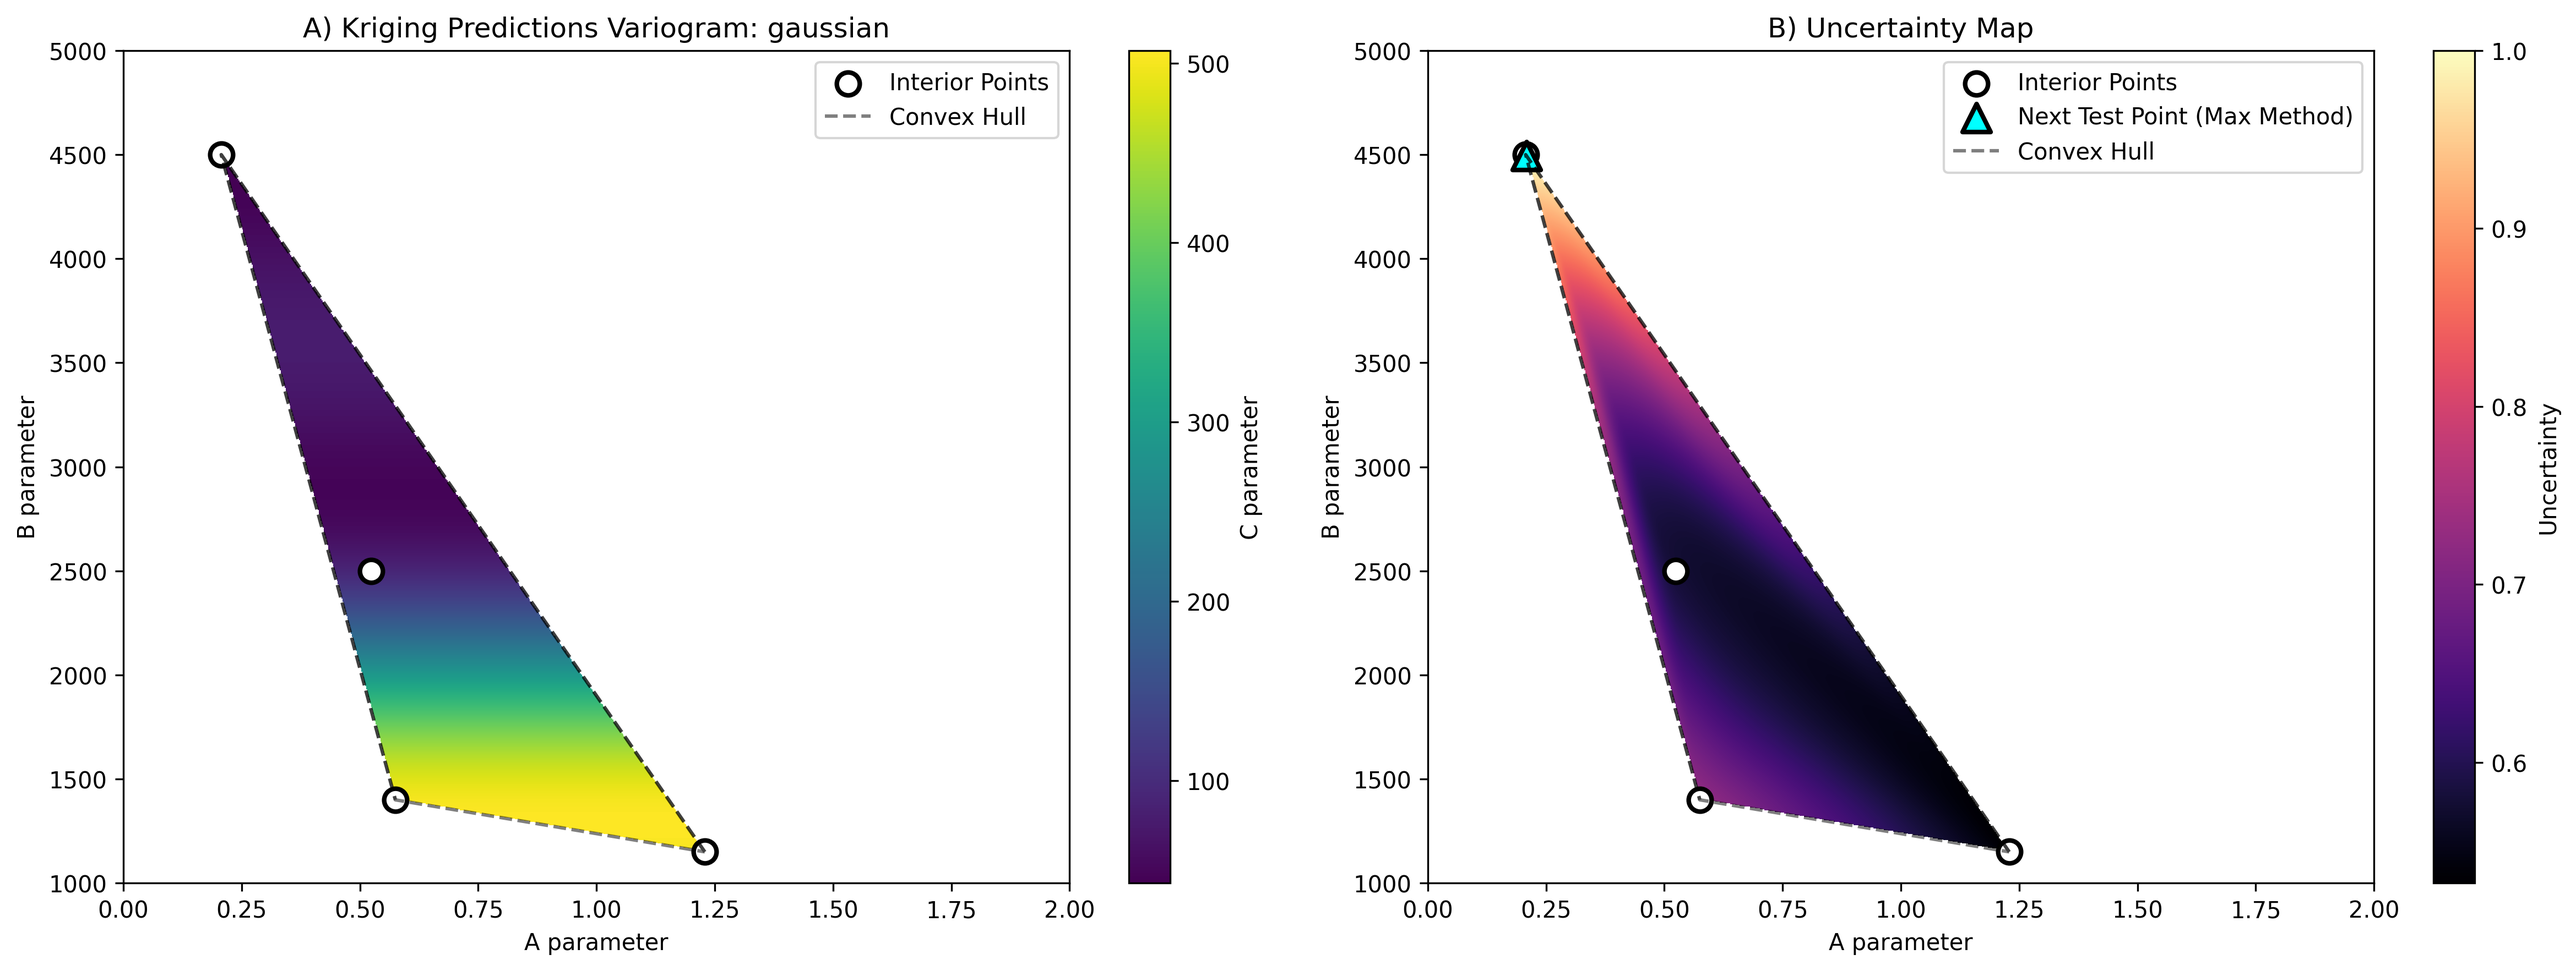
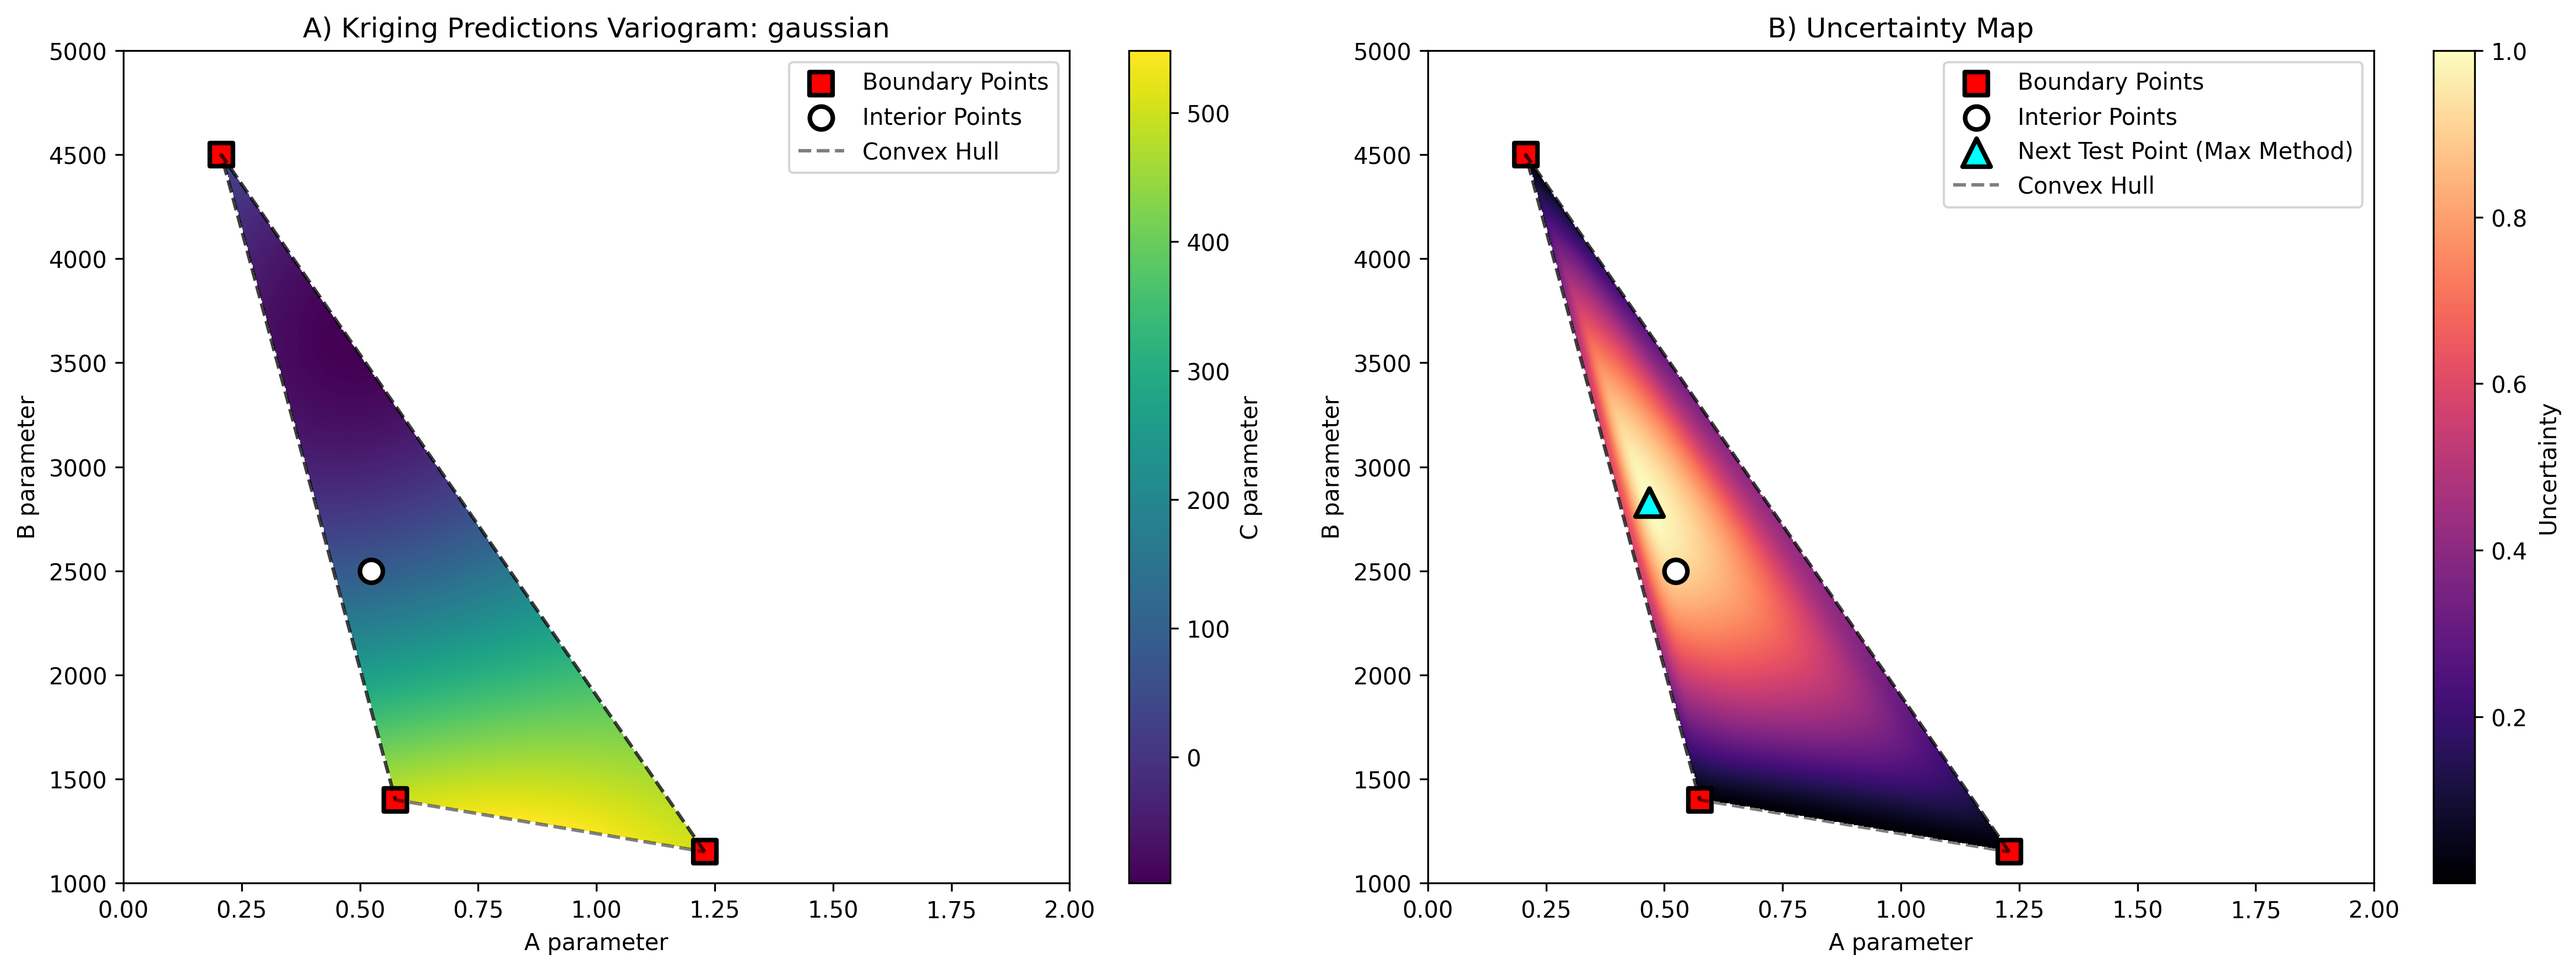
fix

diff --git a/source/example.py b/source/example.py
@@ -22,9 +22,16 @@ if __name__ == "__main__":
                     'verbose': True, 
                     'enable_plotting': False, 
                     'exact_values':False, 
-                    'nlags':4,
-                    'anisotropy_scaling': 3300,
+                    'nlags':3,
+                    'anisotropy_scaling': 0.000305, #scaling applied in y direction 
                     }
+    
+    #if X and Y are diffrent units use anisotropy scaling value calculated below
+    x_range = np.max(X_coords) - np.min(X_coords)
+    y_range = np.max(Y_coords) - np.min(Y_coords)
+    anisotropy_scaling = x_range / y_range
+    print(f"Anisotropy scaling factor (y direction): {anisotropy_scaling}")
+
 
 
     #as a sanity check plot what it looks like scaled just use interpolation
